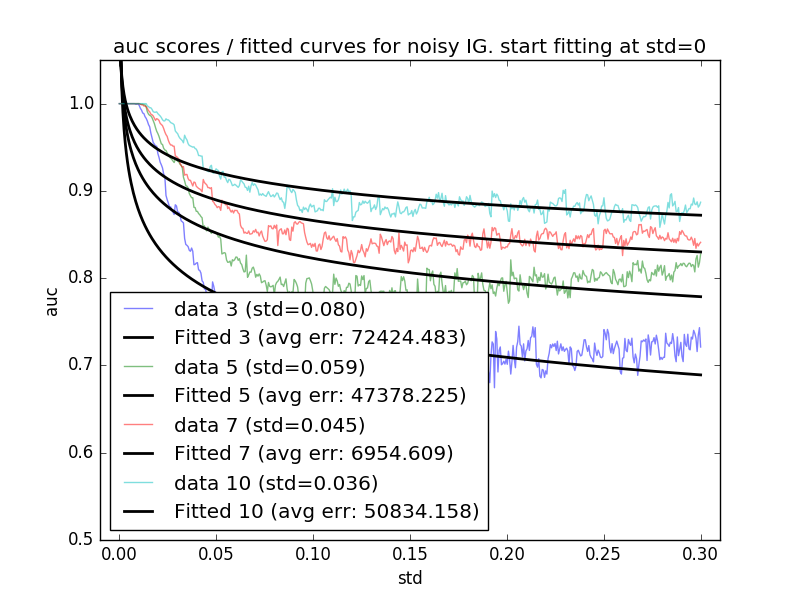
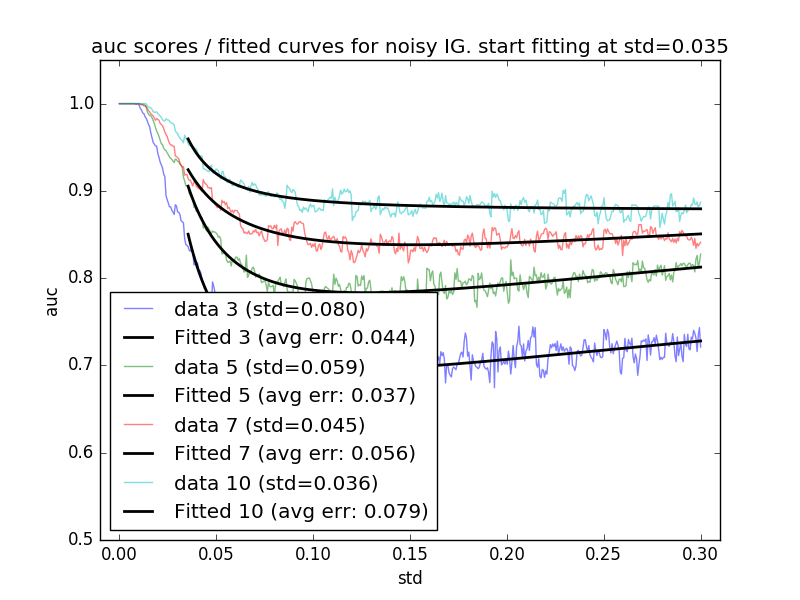
some mods on analysis

diff --git a/analysis_artificial4x.py b/analysis_artificial4x.py
@@ -16,7 +16,7 @@ def do_analysis():
 def evaluate():
     N_features = [3,5,7,10]
     dataset_names = ['artificial40','artificial41','artificial42','artificial43','artificial44']
-    Parallel(n_jobs=4)(delayed(visualise_results)(dn, N_features) for dn in dataset_names)
+    Parallel(n_jobs=4)(delayed(visualise_results)(dn, N_features, start_lim=0.035) for dn in dataset_names)
     # N: #data points
     # M: #parameters
 

diff --git a/analysis_artificial3x.py b/analysis_artificial3x.py
@@ -15,7 +15,7 @@ def do_analysis():
 def evaluate():
     N_features = [3,5,7,10]
     dataset_names = ['artificial30','artificial31','artificial32','artificial33','artificial34']
-    Parallel(n_jobs=4)(delayed(visualise_results)(dn, N_features) for dn in dataset_names)
+    Parallel(n_jobs=4)(delayed(visualise_results)(dn, N_features, start_lim=0) for dn in dataset_names)
     # N: #data points
     # M: #parameters
 
